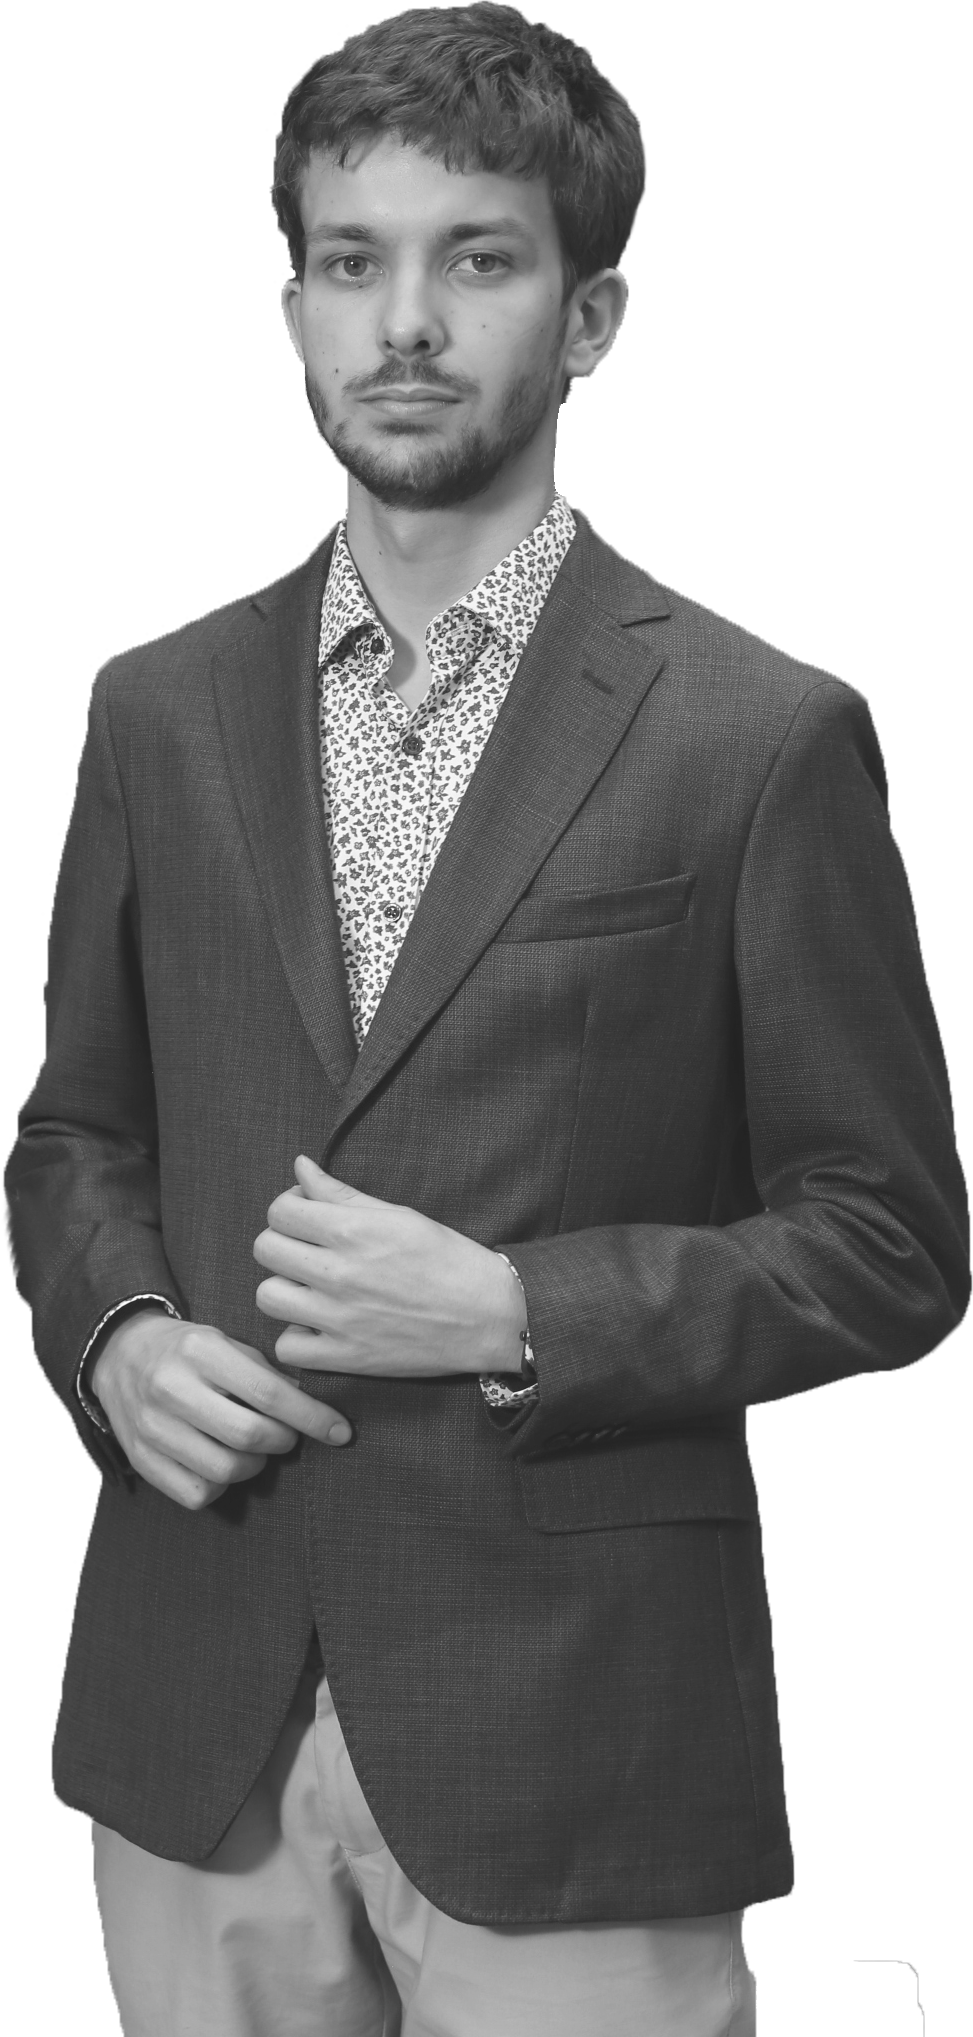
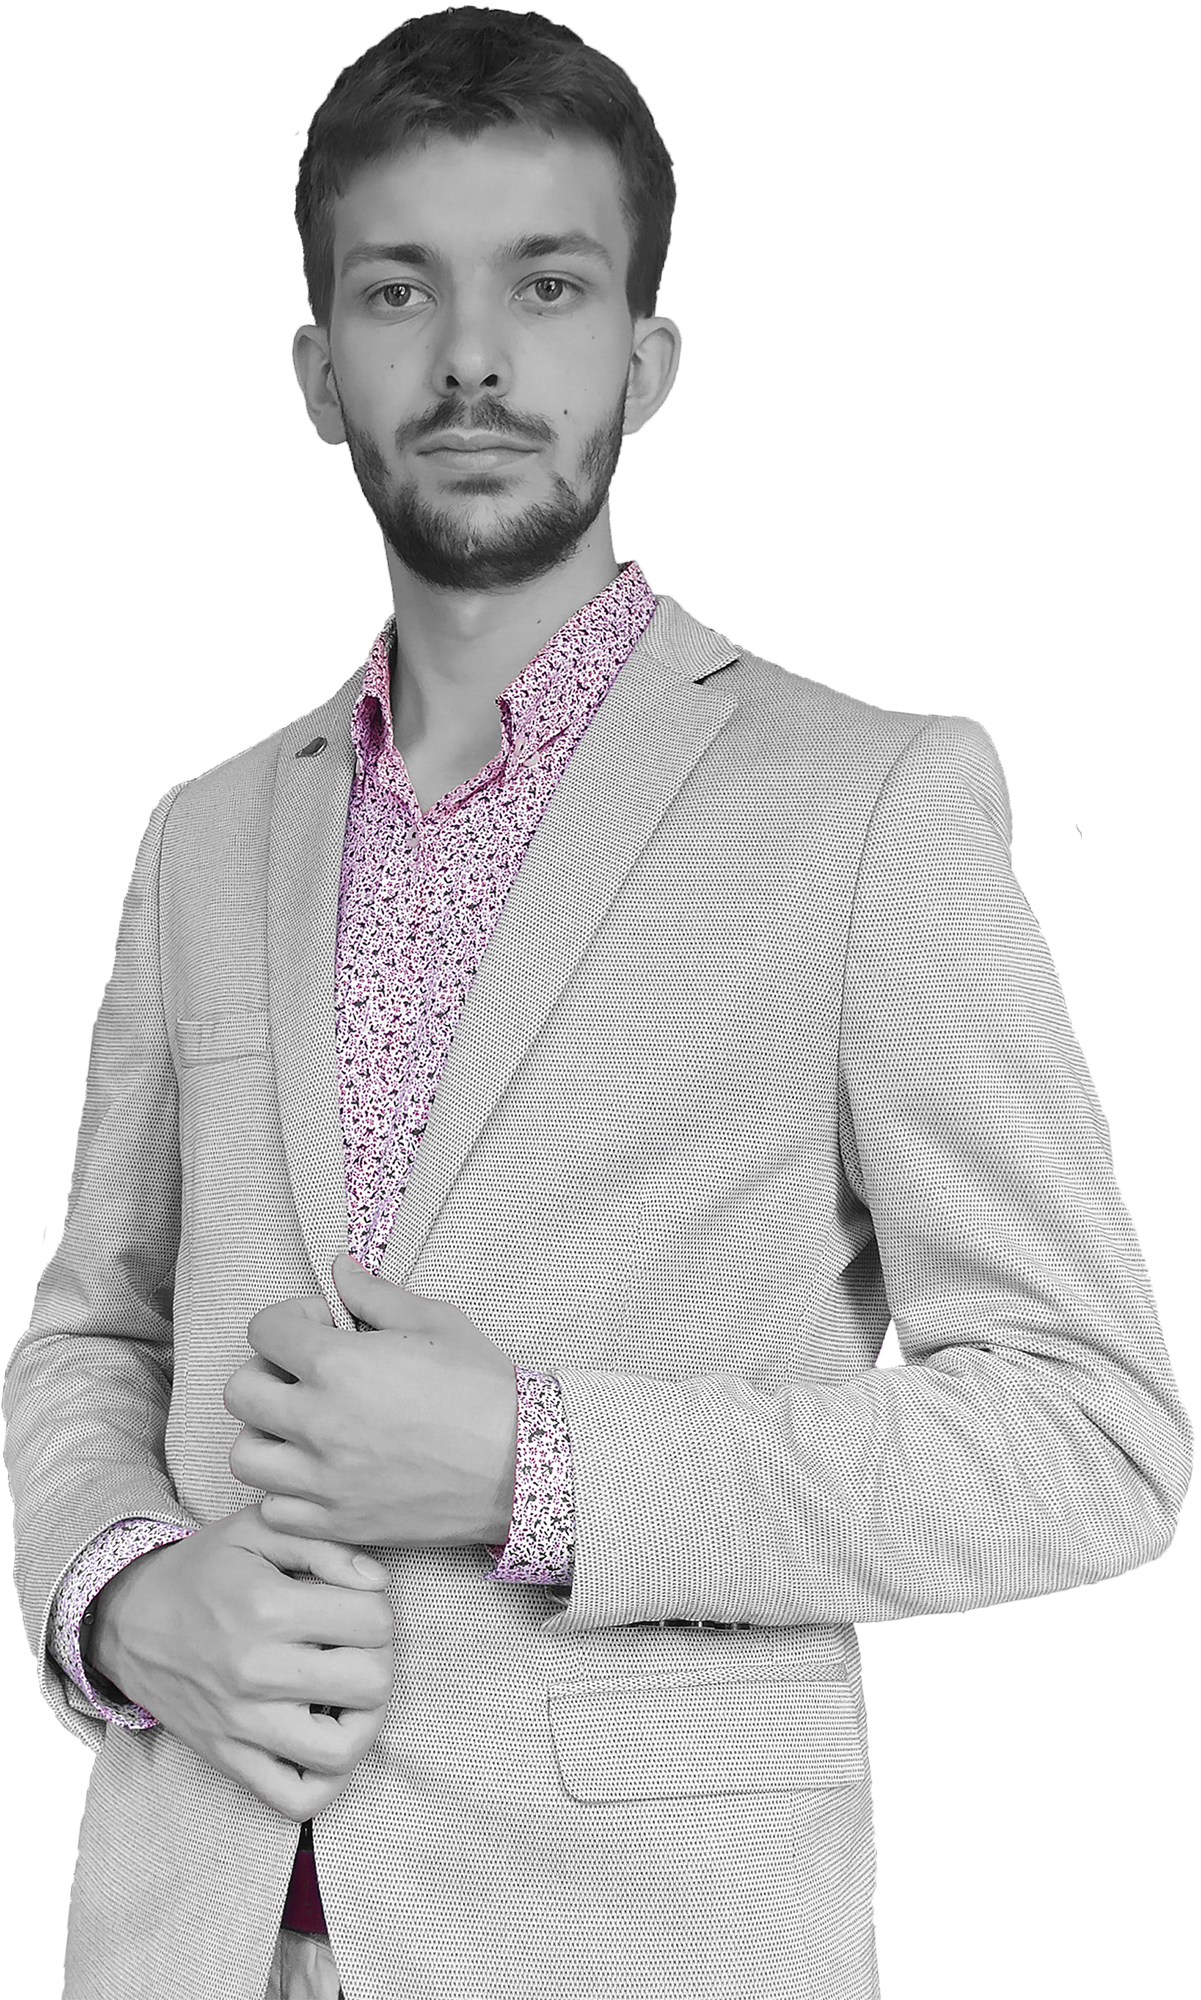
[Refactor] Portrait change
Replaced portrait image to better match the website theme.

diff --git a/client/src/sections/Start/Start.tsx b/client/src/sections/Start/Start.tsx
@@ -1,4 +1,4 @@
-import React from 'react';
+import React, {useEffect} from 'react';
 import './Start.css';
 import portrait from './Assets/portrait.png';
 import Typewriter from 'typewriter-effect';
@@ -13,6 +13,11 @@ optio voluptas, laborum molestias adipisci. Excepturi unde sint delectus quod
 autem debitis officia adipisci quae facere dolore?`;
 
 const Start = () => {
+  useEffect(() => {
+    const imagesToBePreloaded = [portrait];
+    imagesToBePreloaded.forEach((image) => new Image().src = image);
+  });
+
   return (
     <div className="start section">
       <div className="left-container">
